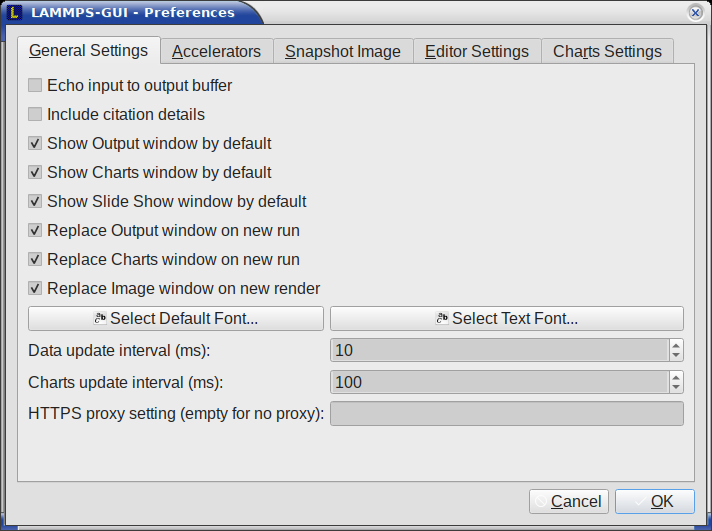
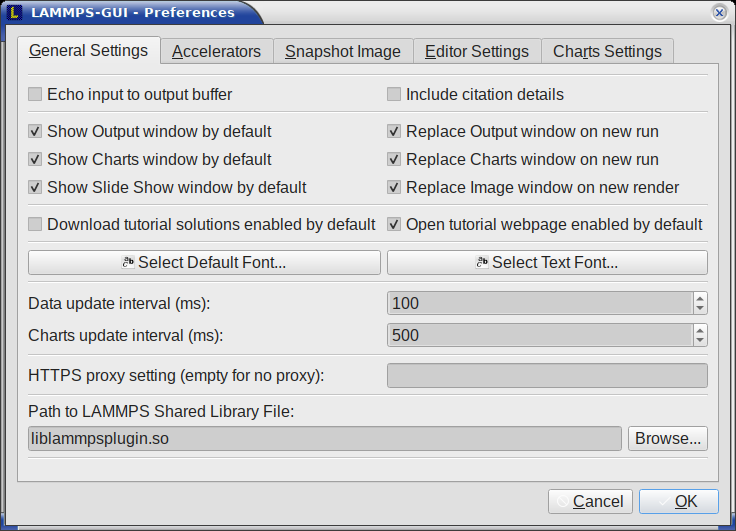
redesign the General settings preference tab and add defaults for tutorial buttons

diff --git a/tools/lammps-gui/preferences.cpp b/tools/lammps-gui/preferences.cpp
@@ -59,6 +59,18 @@
 #include <unistd.h>
 #endif
 
+// convenience class
+
+class QHline : public QFrame {
+public:
+    QHline(QWidget *parent = nullptr) : QFrame(parent)
+    {
+        setGeometry(QRect(0, 0, 100, 3));
+        setFrameShape(QFrame::HLine);
+        setFrameShadow(QFrame::Sunken);
+    }
+};
+
 Preferences::Preferences(LammpsWrapper *_lammps, QWidget *parent) :
     QDialog(parent), tabWidget(new QTabWidget),
     buttonBox(new QDialogButtonBox(QDialogButtonBox::Ok | QDialogButtonBox::Cancel)),
@@ -189,6 +201,13 @@ void Preferences::accept()
     box = tabWidget->findChild<QCheckBox *>("viewslide");
     if (box) settings->setValue("viewslide", box->isChecked());
 
+    settings->beginGroup("tutorial");
+    box = tabWidget->findChild<QCheckBox *>("solution");
+    if (box) settings->setValue("solution", box->isChecked());
+    box = tabWidget->findChild<QCheckBox *>("webpage");
+    if (box) settings->setValue("webpage", box->isChecked());
+    settings->endGroup();
+
     auto *spin = tabWidget->findChild<QSpinBox *>("updfreq");
     if (spin) settings->setValue("updfreq", spin->value());
     spin = tabWidget->findChild<QSpinBox *>("updchart");
@@ -254,7 +273,8 @@ void Preferences::accept()
 GeneralTab::GeneralTab(QSettings *_settings, LammpsWrapper *_lammps, QWidget *parent) :
     QWidget(parent), settings(_settings), lammps(_lammps)
 {
-    auto *layout = new QVBoxLayout;
+    auto *layout = new QGridLayout;
+    ;
 
     auto *echo = new QCheckBox("Echo input to output buffer");
     echo->setObjectName("echo");
@@ -283,7 +303,76 @@ GeneralTab::GeneralTab(QSettings *_settings, LammpsWrapper *_lammps, QWidget *pa
     pltr->setCheckState(settings->value("chartreplace", true).toBool() ? Qt::Checked
                                                                        : Qt::Unchecked);
 
+    settings->beginGroup("tutorial");
+    auto *solution = new QCheckBox("Download tutorial solutions enabled");
+    solution->setObjectName("solution");
+    solution->setCheckState(settings->value("solution", false).toBool() ? Qt::Checked
+                                                                        : Qt::Unchecked);
+    auto *webpage = new QCheckBox("Open tutorial webpage enabled");
+    webpage->setObjectName("webpage");
+    webpage->setCheckState(settings->value("webpage", true).toBool() ? Qt::Checked : Qt::Unchecked);
+    settings->endGroup();
+
+    auto *getallfont =
+        new QPushButton(QIcon(":/icons/preferences-desktop-font.png"), "Select Default Font...");
+    auto *gettextfont =
+        new QPushButton(QIcon(":/icons/preferences-desktop-font.png"), "Select Text Font...");
+    connect(getallfont, &QPushButton::released, this, &GeneralTab::newallfont);
+    connect(gettextfont, &QPushButton::released, this, &GeneralTab::newtextfont);
+
+    auto *freqlabel = new QLabel("Data update interval (ms):");
+    auto *freqval   = new QSpinBox;
+    freqval->setRange(1, 1000);
+    freqval->setStepType(QAbstractSpinBox::AdaptiveDecimalStepType);
+    freqval->setValue(settings->value("updfreq", "10").toInt());
+    freqval->setObjectName("updfreq");
+
+    auto *chartlabel = new QLabel("Charts update interval (ms):");
+    auto *chartval   = new QSpinBox;
+    chartval->setRange(1, 5000);
+    chartval->setStepType(QAbstractSpinBox::AdaptiveDecimalStepType);
+    chartval->setValue(settings->value("updchart", "500").toInt());
+    chartval->setObjectName("updchart");
+
+    int nrow = 0;
+    layout->addWidget(new QHline, nrow++, 0, 1, 2);
+    layout->addWidget(echo, nrow, 0);
+    layout->addWidget(cite, nrow++, 1);
+    layout->addWidget(new QHline, nrow++, 0, 1, 2);
+    layout->addWidget(logv, nrow, 0);
+    layout->addWidget(logr, nrow++, 1);
+    layout->addWidget(pltv, nrow, 0);
+    layout->addWidget(pltr, nrow++, 1);
+    layout->addWidget(sldv, nrow, 0);
+    layout->addWidget(imgr, nrow++, 1);
+    layout->addWidget(new QHline, nrow++, 0, 1, 2);
+    layout->addWidget(solution, nrow, 0);
+    layout->addWidget(webpage, nrow++, 1);
+    layout->addWidget(new QHline, nrow++, 0, 1, 2);
+    layout->addWidget(getallfont, nrow, 0);
+    layout->addWidget(gettextfont, nrow++, 1);
+    layout->addWidget(new QHline, nrow++, 0, 1, 2);
+    layout->addWidget(freqlabel, nrow, 0);
+    layout->addWidget(freqval, nrow++, 1);
+    layout->addWidget(chartlabel, nrow, 0);
+    layout->addWidget(chartval, nrow++, 1);
+    layout->addWidget(new QHline, nrow++, 0, 1, 2);
+
+    auto *proxylabel = new QLabel("HTTPS proxy setting (empty for no proxy):");
+    layout->addWidget(proxylabel, nrow, 0);
+
+    auto https_proxy = QString::fromLocal8Bit(qgetenv("https_proxy"));
+    if (https_proxy.isEmpty()) {
+        https_proxy     = settings->value("https_proxy", "").toString();
+        auto *proxyedit = new QLineEdit(https_proxy);
+        proxyedit->setObjectName("proxyval");
+        layout->addWidget(proxyedit, nrow++, 1);
+    } else {
+        layout->addWidget(new QLabel(https_proxy), nrow++, 1);
+    }
+
 #if defined(LAMMPS_GUI_USE_PLUGIN)
+    layout->addWidget(new QHline, nrow++, 0, 1, 2);
     auto *pluginlabel = new QLabel("Path to LAMMPS Shared Library File:");
     auto *pluginedit =
         new QLineEdit(settings->value("plugin_path", "liblammpsplugin.so").toString());
@@ -294,63 +383,15 @@ GeneralTab::GeneralTab(QSettings *_settings, LammpsWrapper *_lammps, QWidget *pa
     pluginlayout->addWidget(pluginbrowse);
 
     connect(pluginbrowse, &QPushButton::released, this, &GeneralTab::pluginpath);
+
+    layout->addWidget(pluginlabel, nrow++, 0, 1, 2);
+    layout->addLayout(pluginlayout, nrow++, 0, 1, 2);
 #endif
+    layout->addWidget(new QHline, nrow++, 0, 1, 2);
 
-    auto *gridlayout = new QGridLayout;
-    auto *getallfont =
-        new QPushButton(QIcon(":/icons/preferences-desktop-font.png"), "Select Default Font...");
-    auto *gettextfont =
-        new QPushButton(QIcon(":/icons/preferences-desktop-font.png"), "Select Text Font...");
-    gridlayout->addWidget(getallfont, 0, 0);
-    gridlayout->addWidget(gettextfont, 0, 1);
-    connect(getallfont, &QPushButton::released, this, &GeneralTab::newallfont);
-    connect(gettextfont, &QPushButton::released, this, &GeneralTab::newtextfont);
-
-    auto *freqlabel = new QLabel("Data update interval (ms):");
-    auto *freqval   = new QSpinBox;
-    freqval->setRange(1, 1000);
-    freqval->setStepType(QAbstractSpinBox::AdaptiveDecimalStepType);
-    freqval->setValue(settings->value("updfreq", "10").toInt());
-    freqval->setObjectName("updfreq");
-    gridlayout->addWidget(freqlabel, 1, 0);
-    gridlayout->addWidget(freqval, 1, 1);
-
-    auto *chartlabel = new QLabel("Charts update interval (ms):");
-    auto *chartval   = new QSpinBox;
-    chartval->setRange(1, 5000);
-    chartval->setStepType(QAbstractSpinBox::AdaptiveDecimalStepType);
-    chartval->setValue(settings->value("updchart", "500").toInt());
-    chartval->setObjectName("updchart");
-    gridlayout->addWidget(chartlabel, 2, 0);
-    gridlayout->addWidget(chartval, 2, 1);
-
-    auto *proxylabel = new QLabel("HTTPS proxy setting (empty for no proxy):");
-    gridlayout->addWidget(proxylabel, 3, 0);
-
-    auto https_proxy = QString::fromLocal8Bit(qgetenv("https_proxy"));
-    if (https_proxy.isEmpty()) {
-        https_proxy     = settings->value("https_proxy", "").toString();
-        auto *proxyedit = new QLineEdit(https_proxy);
-        proxyedit->setObjectName("proxyval");
-        gridlayout->addWidget(proxyedit, 3, 1);
-    } else {
-        gridlayout->addWidget(new QLabel(https_proxy), 3, 1);
-    }
-
-    layout->addWidget(echo);
-    layout->addWidget(cite);
-    layout->addWidget(logv);
-    layout->addWidget(pltv);
-    layout->addWidget(sldv);
-    layout->addWidget(logr);
-    layout->addWidget(pltr);
-    layout->addWidget(imgr);
-#if defined(LAMMPS_GUI_USE_PLUGIN)
-    layout->addWidget(pluginlabel);
-    layout->addLayout(pluginlayout);
-#endif
-    layout->addLayout(gridlayout);
-    layout->addStretch(1);
+    layout->addItem(new QSpacerItem(10, 10, QSizePolicy::Minimum, QSizePolicy::Expanding), nrow, 0);
+    layout->addItem(new QSpacerItem(10, 10, QSizePolicy::Minimum, QSizePolicy::Expanding), nrow++,
+                    1);
     setLayout(layout);
 }
 

diff --git a/tools/lammps-gui/lammpsgui.cpp b/tools/lammps-gui/lammpsgui.cpp
@@ -1745,6 +1745,8 @@ QWizardPage *LammpsGui::tutorial_intro(const int ntutorial, const QString &infot
 
 QWizardPage *LammpsGui::tutorial_directory(const int ntutorial)
 {
+    QSettings settings;
+    settings.beginGroup("tutorial");
     auto *page = new QWizardPage;
     page->setTitle(QString("Select Directory for Tutorial %1").arg(ntutorial));
     page->setPixmap(QWizard::WatermarkPixmap,
@@ -1799,7 +1801,7 @@ QWizardPage *LammpsGui::tutorial_directory(const int ntutorial)
 
     purgeval->setCheckState(Qt::Unchecked);
     purgeval->setObjectName("t_dirpurge");
-    solval->setCheckState(Qt::Unchecked);
+    solval->setCheckState(settings.value("solution", false).toBool() ? Qt::Checked : Qt::Unchecked);
     solval->setObjectName("t_getsolution");
     grid->addWidget(purgeval, 0, 0, Qt::AlignVCenter);
     grid->addWidget(purgelabel, 0, 1, Qt::AlignVCenter);
@@ -1814,7 +1816,8 @@ QWizardPage *LammpsGui::tutorial_directory(const int ntutorial)
     if ((ntutorial > 0) && (ntutorial < 8)) {
         grid->addWidget(new QLabel, 2, 0, 1, 2, Qt::AlignVCenter);
         webval = new QCheckBox;
-        webval->setCheckState(Qt::Checked);
+        webval->setCheckState(settings.value("webpage", true).toBool() ? Qt::Checked
+                                                                       : Qt::Unchecked);
         webval->setObjectName("t_webopen");
         grid->addWidget(webval, 3, 0, Qt::AlignVCenter);
         grid->addWidget(new QLabel("Open tutorial webpage in web browser"), 3, 1, Qt::AlignVCenter);
@@ -1830,6 +1833,7 @@ QWizardPage *LammpsGui::tutorial_directory(const int ntutorial)
     layout->addLayout(dirlayout);
     layout->addLayout(grid);
     layout->addWidget(label2);
+    settings.endGroup();
 
     page->setLayout(layout);
     return page;

diff --git a/doc/src/Howto_lammps_gui.rst b/doc/src/Howto_lammps_gui.rst
@@ -966,13 +966,12 @@ General Settings:
 - *Replace image window on new render:* when checked, an existing
   chart window will be replaced when a new snapshot image is requested,
   otherwise each command will create a new image window.
-- *Path to LAMMPS Shared Library File:* this option is only visible
-  when LAMMPS-GUI was compiled to load the LAMMPS library at run time
-  instead of being linked to it directly.  With the *Browse..* button
-  or by changing the text, a different shared library file with a
-  different compilation of LAMMPS with different settings or from a
-  different version can be loaded.  After this setting was changed,
-  LAMMPS-GUI needs to be re-launched.
+- *Download tutorial solutions enabled* this controls whether the
+  "Download solutions" option is enabled by default when setting up
+  a tutorial.
+- *Open tutorial webpage enabled* this controls whether the "Open
+  tutorial webpage in web browser" option is enabled by default when
+  setting up a tutorial.
 - *Select Default Font:* Opens a font selection dialog where the type
   and size for the default font (used for everything but the editor and
   log) of the application can be set.
@@ -996,6 +995,13 @@ General Settings:
   or for downloading tutorial files from the *Tutorials* menu.  If the
   ``https_proxy`` environment variable was set externally, its value is
   displayed but cannot be changed.
+- *Path to LAMMPS Shared Library File:* this option is only visible
+  when LAMMPS-GUI was compiled to load the LAMMPS library at run time
+  instead of being linked to it directly.  With the *Browse..* button
+  or by changing the text, a different shared library file with a
+  different compilation of LAMMPS with different settings or from a
+  different version can be loaded.  After this setting was changed,
+  LAMMPS-GUI needs to be re-launched.
 
 Accelerators:
 ^^^^^^^^^^^^^
